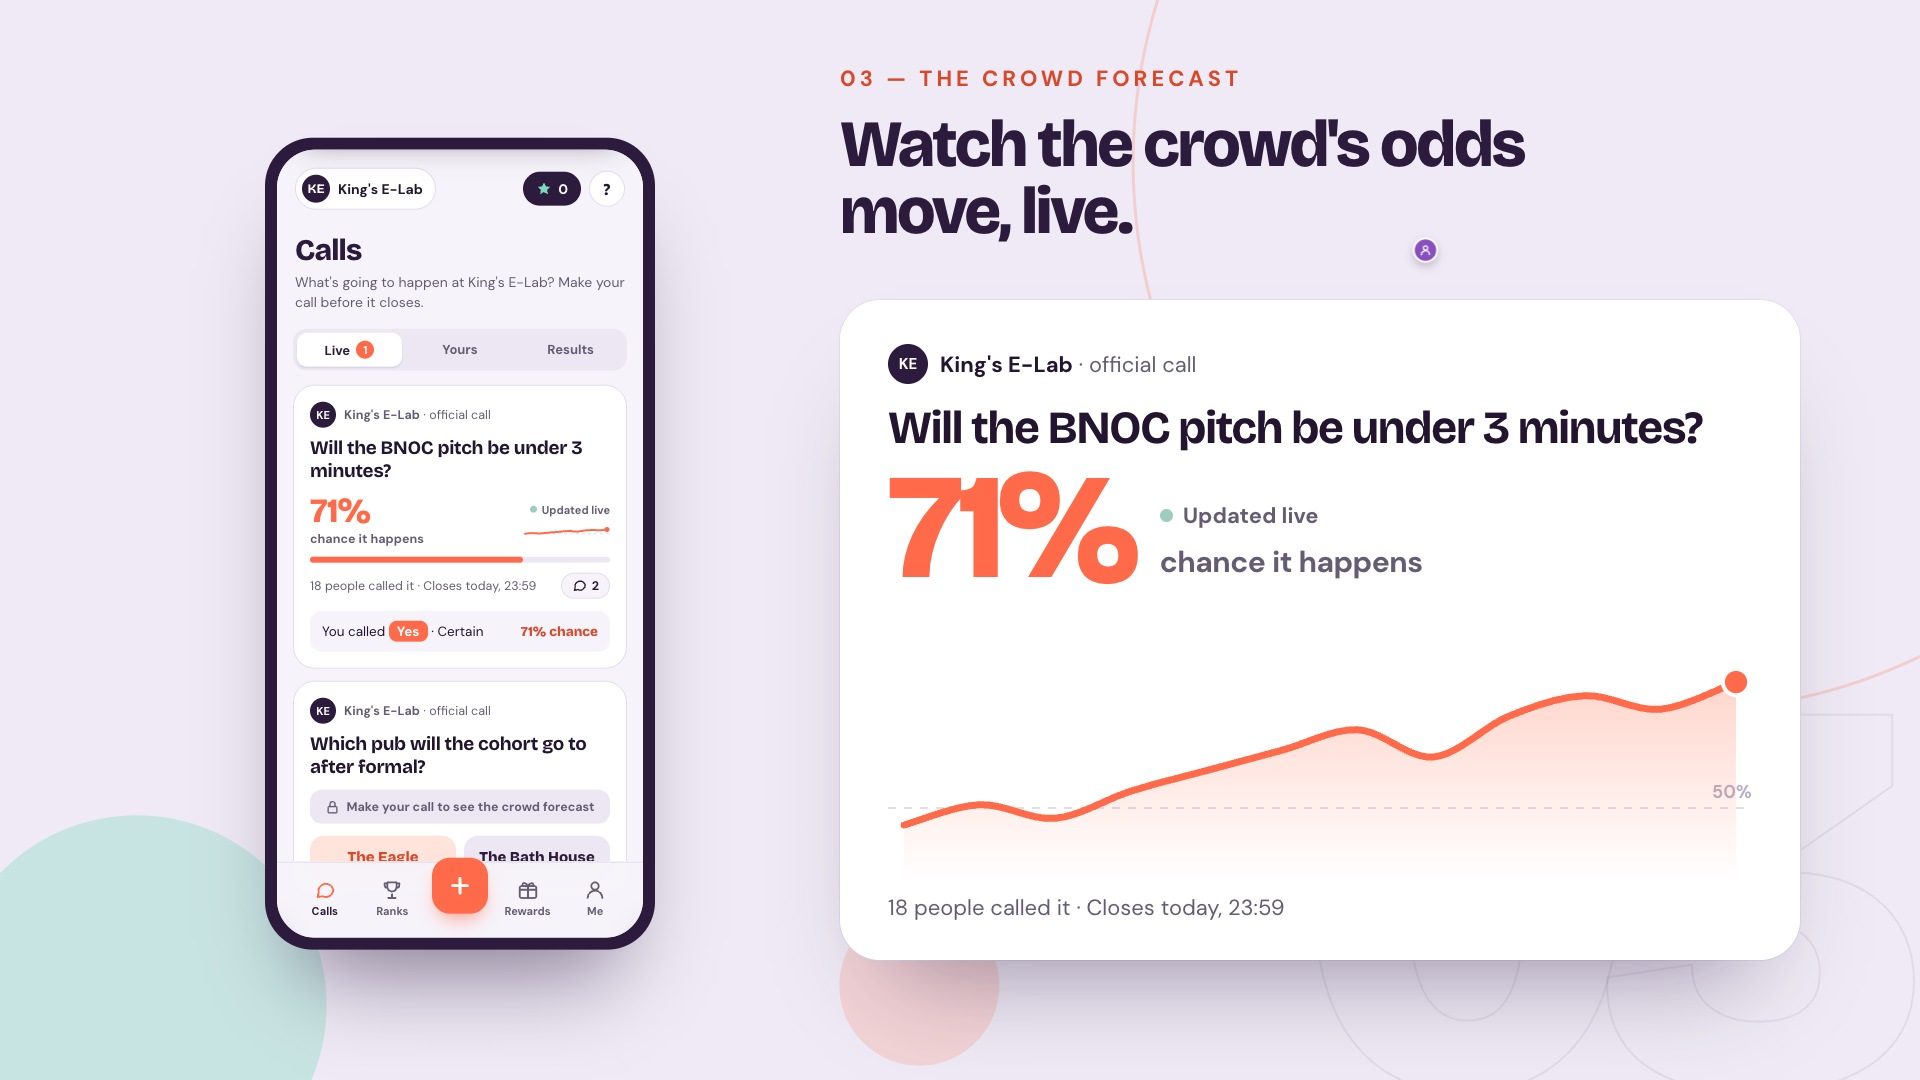
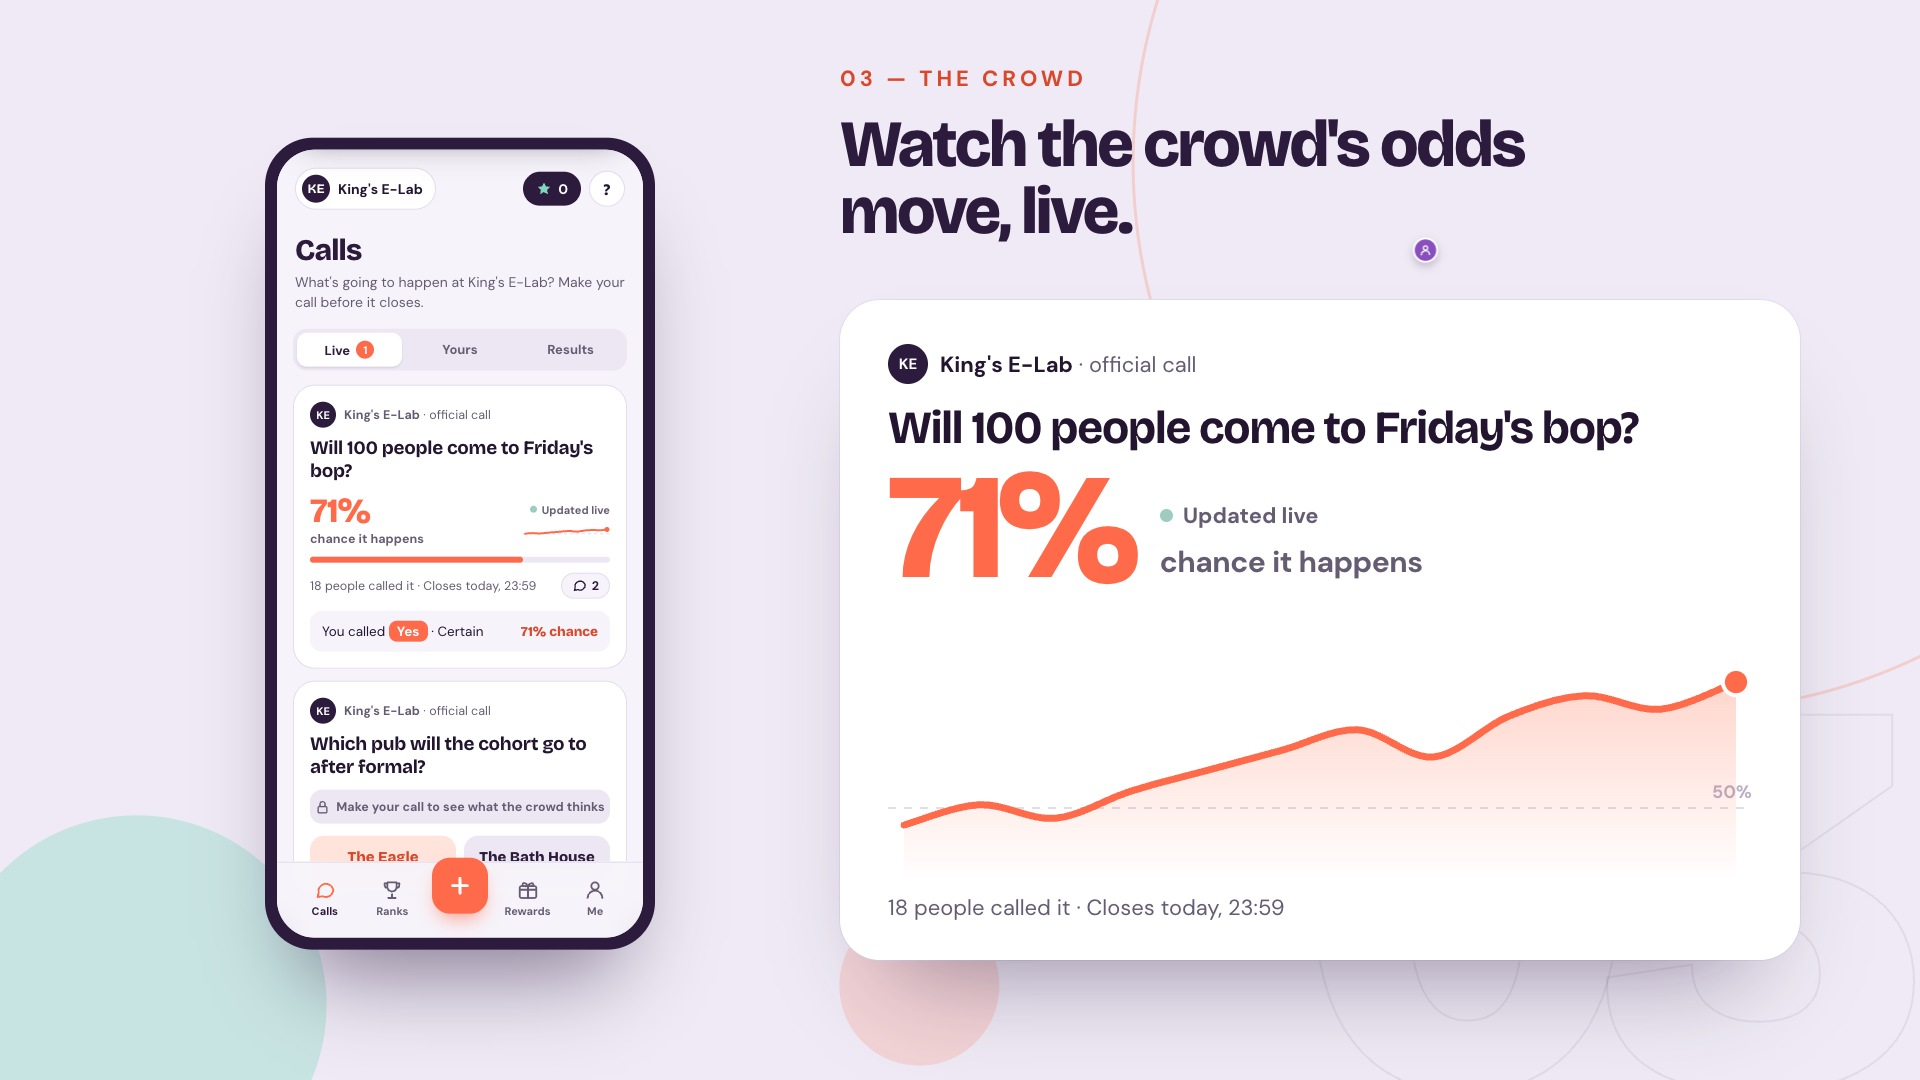
Product film and pitch screenshots: sample question is now a turnout call

diff --git a/video/intro.html b/video/intro.html
@@ -109,7 +109,7 @@ html,body{margin:0;width:1920px;height:1080px;overflow:hidden;background:#EFEAF5
     <p class="sub">The surer you are, the more you win if you're right, and the more you risk if you're wrong.</p>
   </div>
   <div id="cap3" class="cap" style="left:840px;top:64px;width:980px">
-    <p class="kick">03 — The crowd forecast</p>
+    <p class="kick">03 — The crowd</p>
     <h1 class="ttl s"><span class="ln"><span>Watch the crowd's odds</span></span><span class="ln"><span>move, live.</span></span></h1>
   </div>
   <div id="cap4" class="cap" style="left:840px;top:64px;width:980px">
@@ -146,9 +146,9 @@ html,body{margin:0;width:1920px;height:1080px;overflow:hidden;background:#EFEAF5
           <div class="seg"><button aria-pressed="true">Live <span class="seg-count" id="liveCount">2</span></button><button>Yours</button><button>Results</button></div>
           <article class="call" id="c1">
             <div class="call-meta"><span class="avatar" style="background:var(--plum)">KE</span><span><b>King's E-Lab</b> · official call</span></div>
-            <h3>Will the BNOC pitch be under 3 minutes?</h3>
+            <h3>Will 100 people come to Friday's bop?</h3>
             <div class="chips" id="c1chips"><span class="chip">Result: Yes</span><span class="chip won">You called it: +20</span></div>
-            <div class="bar bar-empty fc-locked" id="c1lock"><svg width="15" height="15" viewBox="0 0 24 24" fill="none" stroke="currentColor" stroke-width="2.2" stroke-linecap="round" stroke-linejoin="round"><rect x="5" y="11" width="14" height="10" rx="2"/><path d="M8 11V7a4 4 0 0 1 8 0v4"/></svg>Make your call to see the crowd forecast</div>
+            <div class="bar bar-empty fc-locked" id="c1lock"><svg width="15" height="15" viewBox="0 0 24 24" fill="none" stroke="currentColor" stroke-width="2.2" stroke-linecap="round" stroke-linejoin="round"><rect x="5" y="11" width="14" height="10" rx="2"/><path d="M8 11V7a4 4 0 0 1 8 0v4"/></svg>Make your call to see what the crowd thinks</div>
             <div class="fc" id="c1fc">
               <div class="fc-top">
                 <div class="fc-main"><div><span class="fc-num" id="c1num">50%</span></div><div class="fc-sub">chance it happens</div></div>
@@ -164,7 +164,7 @@ html,body{margin:0;width:1920px;height:1080px;overflow:hidden;background:#EFEAF5
           <article class="call">
             <div class="call-meta"><span class="avatar" style="background:var(--plum)">KE</span><span><b>King's E-Lab</b> · official call</span></div>
             <h3>Which pub will the cohort go to after formal?</h3>
-            <div class="bar bar-empty fc-locked"><svg width="15" height="15" viewBox="0 0 24 24" fill="none" stroke="currentColor" stroke-width="2.2" stroke-linecap="round" stroke-linejoin="round"><rect x="5" y="11" width="14" height="10" rx="2"/><path d="M8 11V7a4 4 0 0 1 8 0v4"/></svg>Make your call to see the crowd forecast</div>
+            <div class="bar bar-empty fc-locked"><svg width="15" height="15" viewBox="0 0 24 24" fill="none" stroke="currentColor" stroke-width="2.2" stroke-linecap="round" stroke-linejoin="round"><rect x="5" y="11" width="14" height="10" rx="2"/><path d="M8 11V7a4 4 0 0 1 8 0v4"/></svg>Make your call to see what the crowd thinks</div>
             <div class="vote"><button class="yes">The Eagle</button><button class="no">The Bath House</button></div>
           </article>
         </div>
@@ -199,7 +199,7 @@ html,body{margin:0;width:1920px;height:1080px;overflow:hidden;background:#EFEAF5
       <div class="scrim" id="scrim"></div>
       <div class="sheet" id="sheet" style="visibility:visible">
         <div class="grab"></div>
-        <p class="sheet-q">Will the BNOC pitch be under 3 minutes?</p>
+        <p class="sheet-q">Will 100 people come to Friday's bop?</p>
         <h2>You're calling <span class="side-tag y">Yes</span></h2>
         <p class="lead">How sure are you?</p>
         <div class="conf">
@@ -218,7 +218,7 @@ html,body{margin:0;width:1920px;height:1080px;overflow:hidden;background:#EFEAF5
   <!-- big live forecast panel -->
   <div id="panel" class="abs">
     <div class="pm"><span class="avatar" style="background:var(--plum)">KE</span><span><b style="color:var(--ink)">King's E-Lab</b> · official call</span></div>
-    <h2>Will the BNOC pitch be under 3 minutes?</h2>
+    <h2>Will 100 people come to Friday's bop?</h2>
     <div class="prow">
       <span id="pNum">50%</span>
       <div><div class="plive" id="pLive"><i id="pDot"></i><span id="pLiveTxt">Updated live</span></div><div class="pwhat">chance it happens</div></div>
@@ -482,8 +482,8 @@ window.render = function (t) {
   $('c1foot').textContent = `${answered ? people : 10} people called it · ${settled ? 'Settled' : 'Closes today, 23:59'}`;
   $('pFoot').textContent = `${people} people called it · ${t >= 26.4 ? 'Closed today, 23:59' : 'Closes today, 23:59'}`;
   const closed = t >= 26.4;
-  $('c1liveTxt').textContent = closed ? 'Final forecast' : 'Updated live';
-  $('pLiveTxt').textContent = closed ? 'Final forecast' : 'Updated live';
+  $('c1liveTxt').textContent = closed ? 'Final odds' : 'Updated live';
+  $('pLiveTxt').textContent = closed ? 'Final odds' : 'Updated live';
   const pulse = closed ? 0 : .35 + .65 * (.5 + .5 * Math.cos(t * 3.5));
   S($('c1dotLive'), { opacity: pulse, display: closed ? 'none' : '' });
   S($('pDot'), { opacity: pulse, display: closed ? 'none' : '' });
